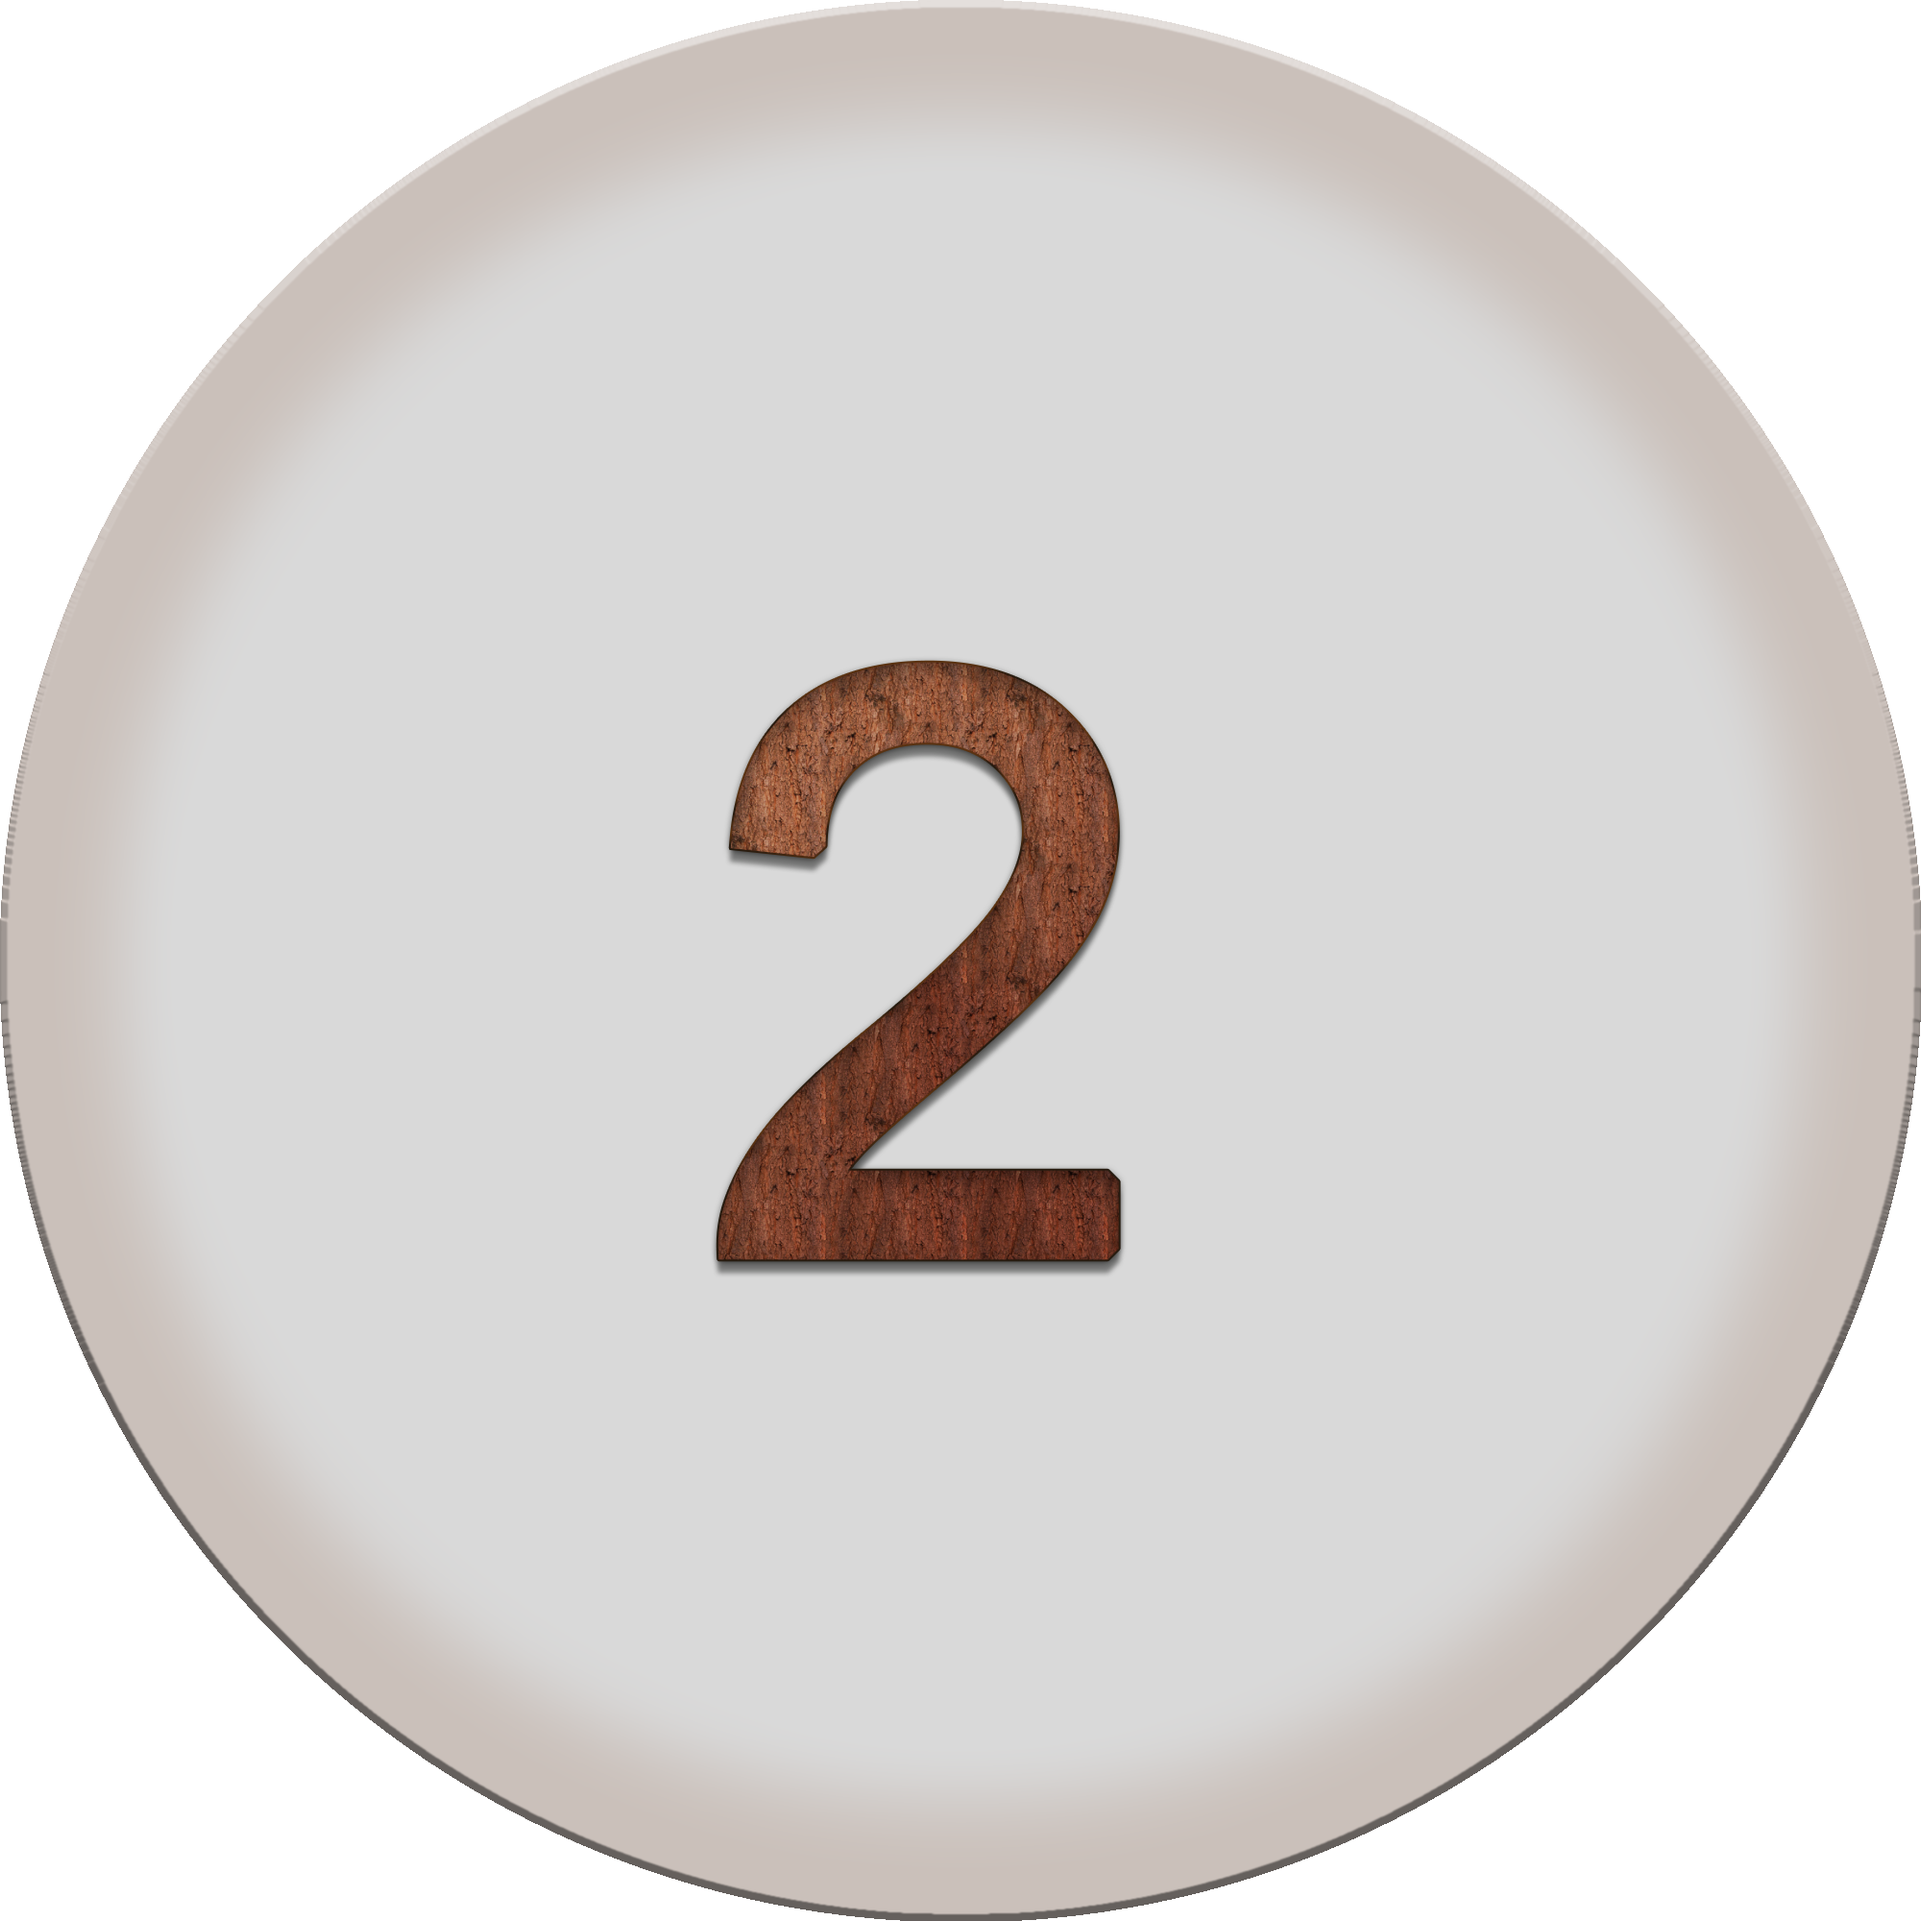
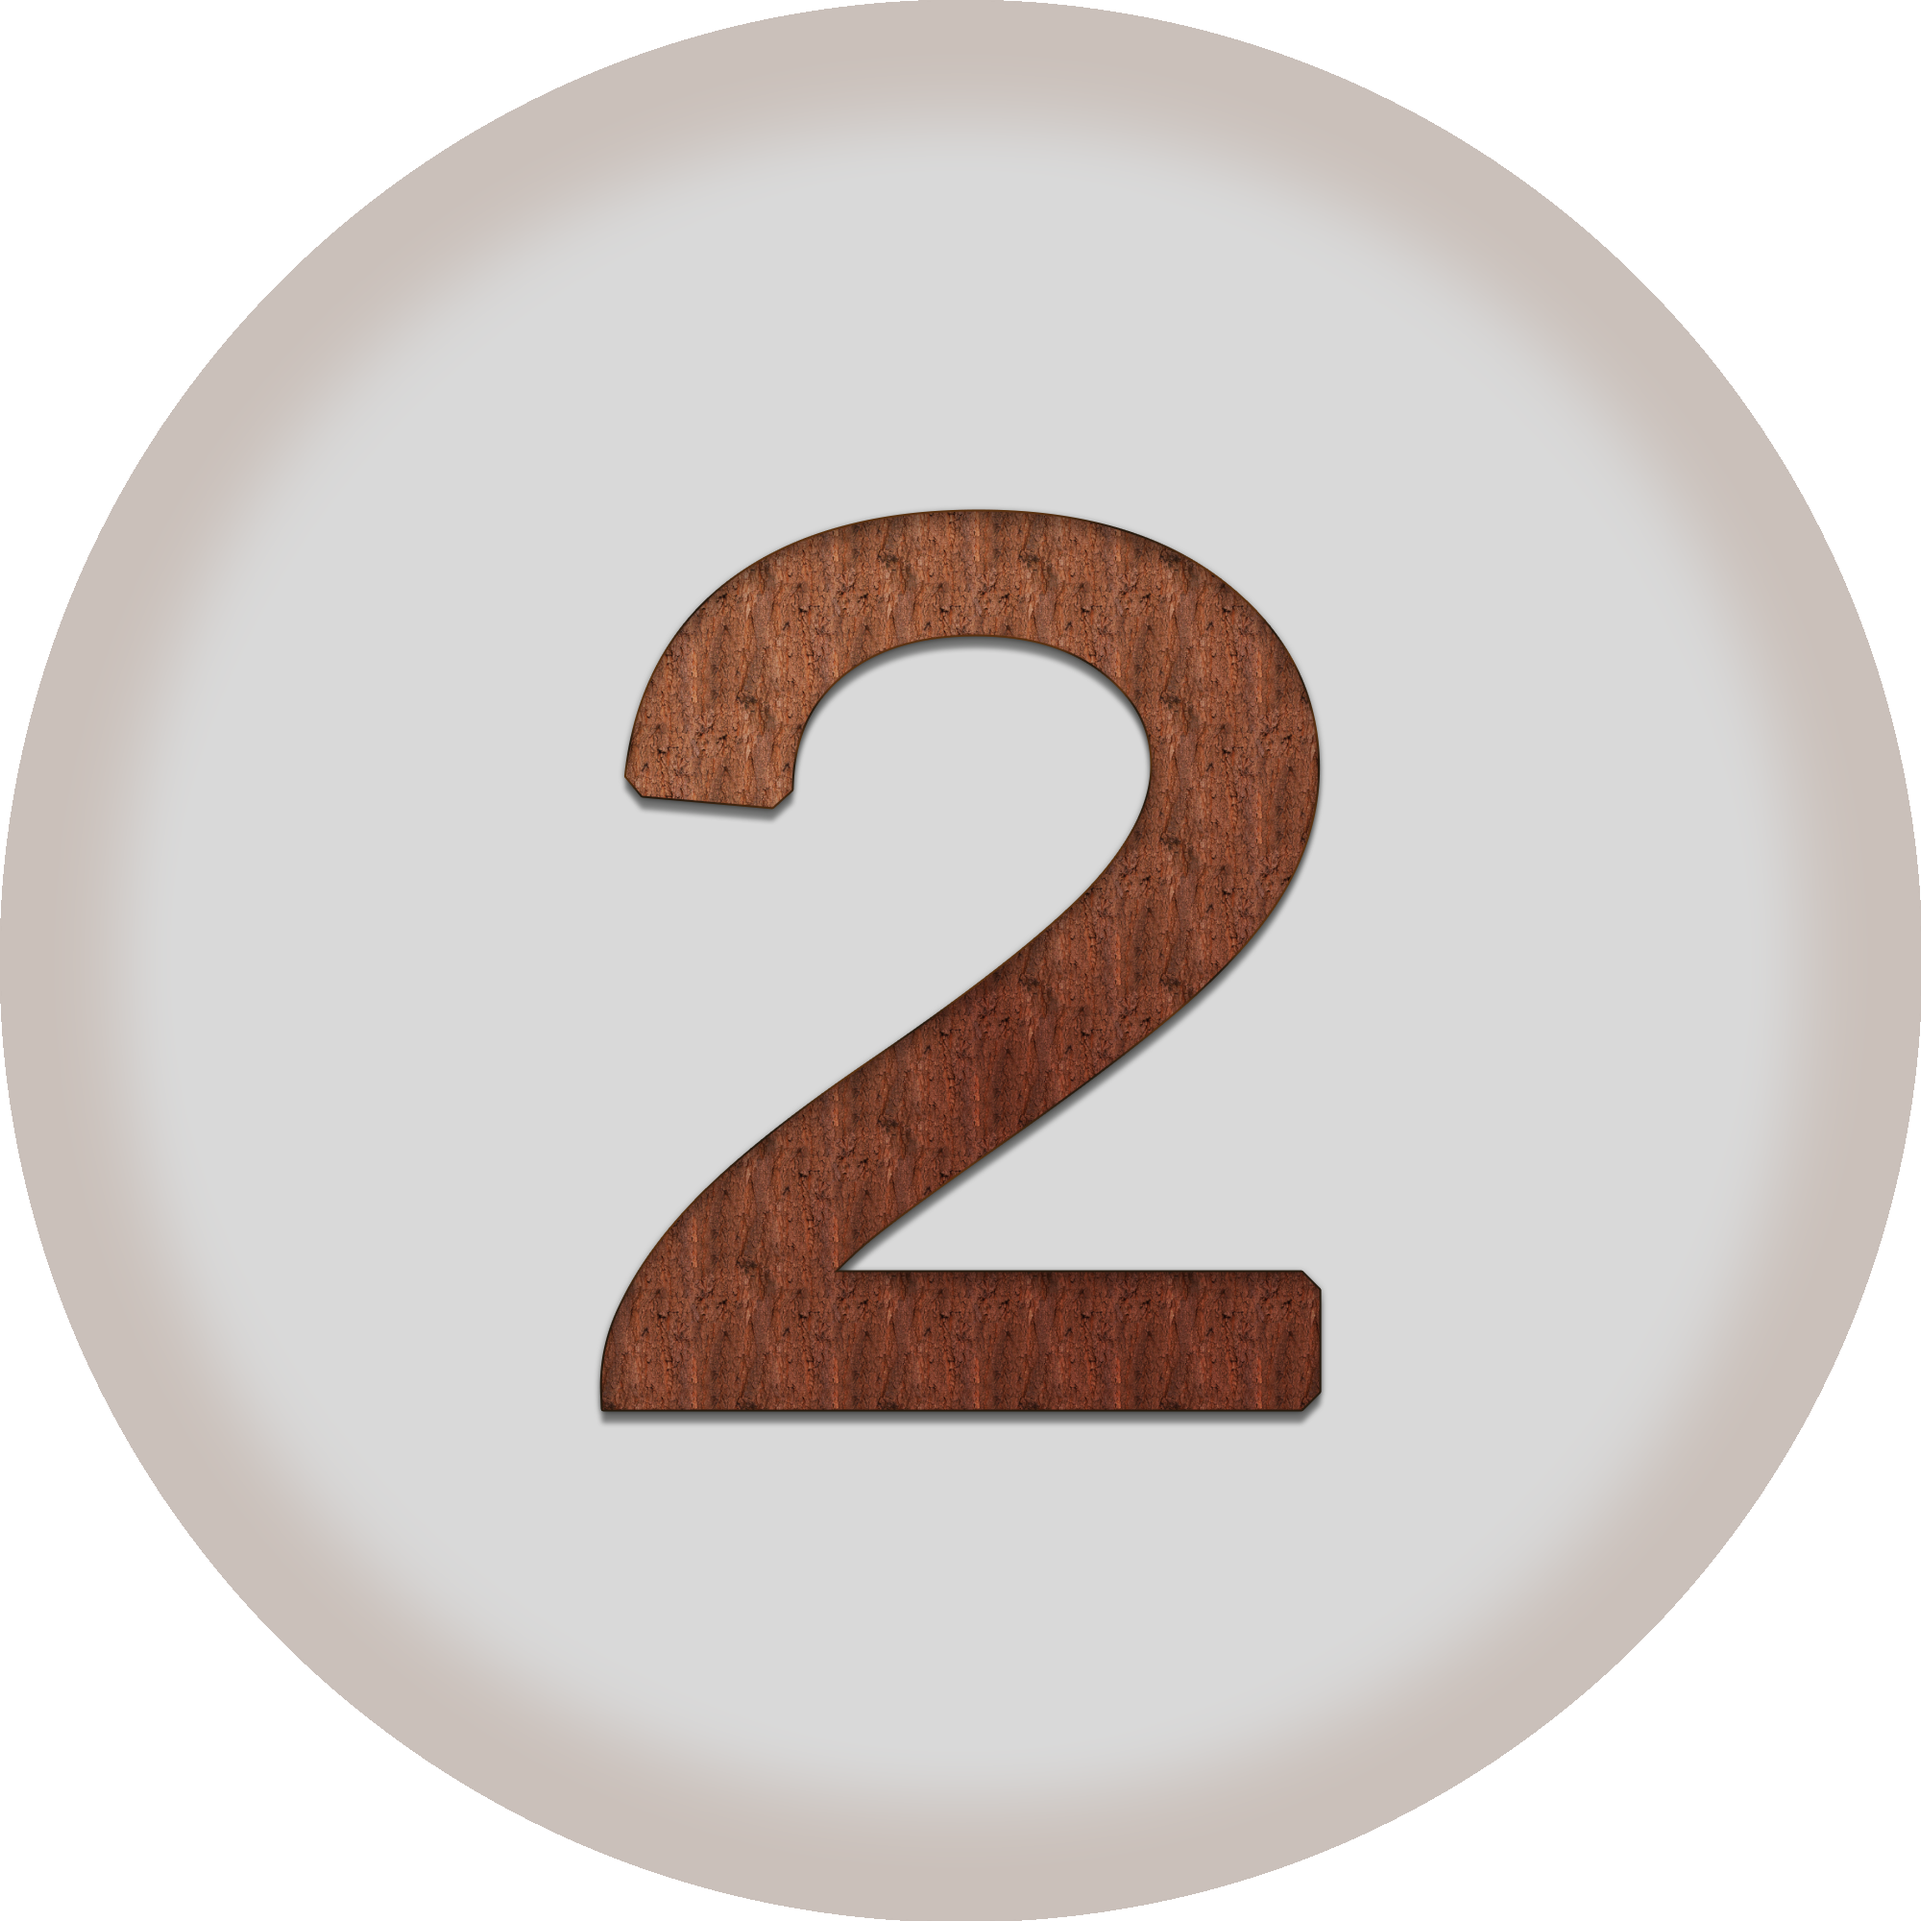
piles bloqués niveau distance nouvelles images mise en place du smoothscale pour les piles de pion
reste à verifier si le deplacement est possible

diff --git a/game_management.py b/game_management.py
@@ -1,12 +1,10 @@
-from graphic_interface import Text, fonts
+from graphic_interface import Text, fonts, Image
 import pygame
 
 empty_surface = pygame.Surface((0, 0))
 
 pawns_images = {}
 
-
-#
 
 class Player:
     def __init__(self, name, all_piles, color="blanc"):
@@ -36,19 +34,21 @@ class Player:
 
 
 class PawnsPile:
-    def __init__(self, screen, all_piles, color="blanc", position=(0, 0), nb_pawns=1):
+    def __init__(self, screen, all_piles, color="blanc", position=(0, 0), nb_pawns=1, pawn_distance=(0, 0)):
         self.screen = screen
         self.size = min(self.screen.get_size()) / 20
         self.color = color
         self.nb_pawns = nb_pawns
         self.initial_position = position
         self.dragging = False
-        self.offset = [0, 0]
         self.all_piles = all_piles
         self.image = self.load_image()
-        self.rect = self.image.get_rect(topleft=self.initial_position)
 
-        self.pawn_distance = self.min_distance()[1]
+        self.rect = self.image.get_rect(center=self.initial_position)
+
+        self.offset = [self.initial_position[0] - self.rect.x, self.initial_position[1] - self.rect.y]
+
+        self.pawn_distance = pawn_distance
 
     def load_image(self):
         if self.nb_pawns > 0:
@@ -60,7 +60,7 @@ class PawnsPile:
             if key not in pawns_images:
                 image_path = f"IMAGES/pion_{self.color}_{self.nb_pawns}.png"  # À adapter
                 image = pygame.image.load(image_path)
-                pawns_images[key] = pygame.transform.scale(image, (self.size, self.size))
+                pawns_images[key] = pygame.transform.smoothscale(image, (self.size, self.size))
 
             return pawns_images[key]
         else:
@@ -77,8 +77,12 @@ class PawnsPile:
     def update(self):
         if self.dragging:
             mouse_x, mouse_y = pygame.mouse.get_pos()
-            self.rect.x = mouse_x - self.offset[0]
-            self.rect.y = mouse_y - self.offset[1]
+
+            if abs(self.initial_position[0] - mouse_x) <= self.pawn_distance[0] + 0.6 * self.size:
+                self.rect.x = mouse_x - self.offset[0]
+
+            if abs(self.initial_position[1] - mouse_y) <= self.pawn_distance[1] + 0.6 * self.size:
+                self.rect.y = mouse_y - self.offset[1]
 
     def min_distance(self):
         closest_pile = None
@@ -96,7 +100,7 @@ class PawnsPile:
                             min_distance = distance
                             closest_pile = pile
 
-        return closest_pile, min_distance
+        return closest_pile
 
     def handle_event(self, event):
 
@@ -104,14 +108,12 @@ class PawnsPile:
             if 0 < self.nb_pawns < 5:
                 if self.rect.collidepoint(event.pos):
                     self.dragging = True
-                    mouse_x, mouse_y = event.pos
-                    self.offset = [mouse_x - self.rect.x, mouse_y - self.rect.y]
 
         elif event.type == pygame.MOUSEBUTTONUP and event.button == 1:
             if self.dragging:
                 self.dragging = False
 
-                closest_pile = self.min_distance()[0]
+                closest_pile = self.min_distance() # trouver la pile la plus proche
 
                 if closest_pile is not None:
                     if closest_pile.nb_pawns != 0 and closest_pile.nb_pawns + self.nb_pawns <= 5:
@@ -129,4 +131,4 @@ class PawnsPile:
                         self.draw(self.screen)
 
                 # revenir à la position initiale
-                self.rect = self.image.get_rect(topleft=self.initial_position)
+                self.rect = self.image.get_rect(center=self.initial_position)

diff --git a/game.py b/game.py
@@ -113,12 +113,10 @@ class Game:
 
     def create_piles(self):
         couleur = "blanc"
-        window_width = self.windows_size[0]
-        window_height = self.windows_size[1]
-        x_start = window_width * 0.225
-        y_start = window_height * 0.223
-        x_increment = window_width * 0.0625
-        y_increment = window_height * 0.063
+        x_start = self.windows_size[0] * 0.25
+        y_start = self.windows_size[1] * 0.247
+        x_increment = self.windows_size[0] * 0.0625
+        y_increment = self.windows_size[1] * 0.063
         all_piles_append = self.all_piles.append
 
         # Liste des coordonnées qui ne peuvent pas avoir de pile
@@ -144,7 +142,8 @@ class Game:
                     game_management.PawnsPile(
                         self.screen, self.all_piles, couleur,
                         position=(x_position, y_position),
-                        nb_pawns=nb_pawns
+                        nb_pawns=nb_pawns,
+                        pawn_distance=(x_increment, y_increment)
                     )
                 )
 
@@ -214,6 +213,7 @@ class Game:
                     pile_in_drag = pile
                 else:
                     pile.draw()
+
         if pile_in_drag:
             pile_in_drag.draw()
 
